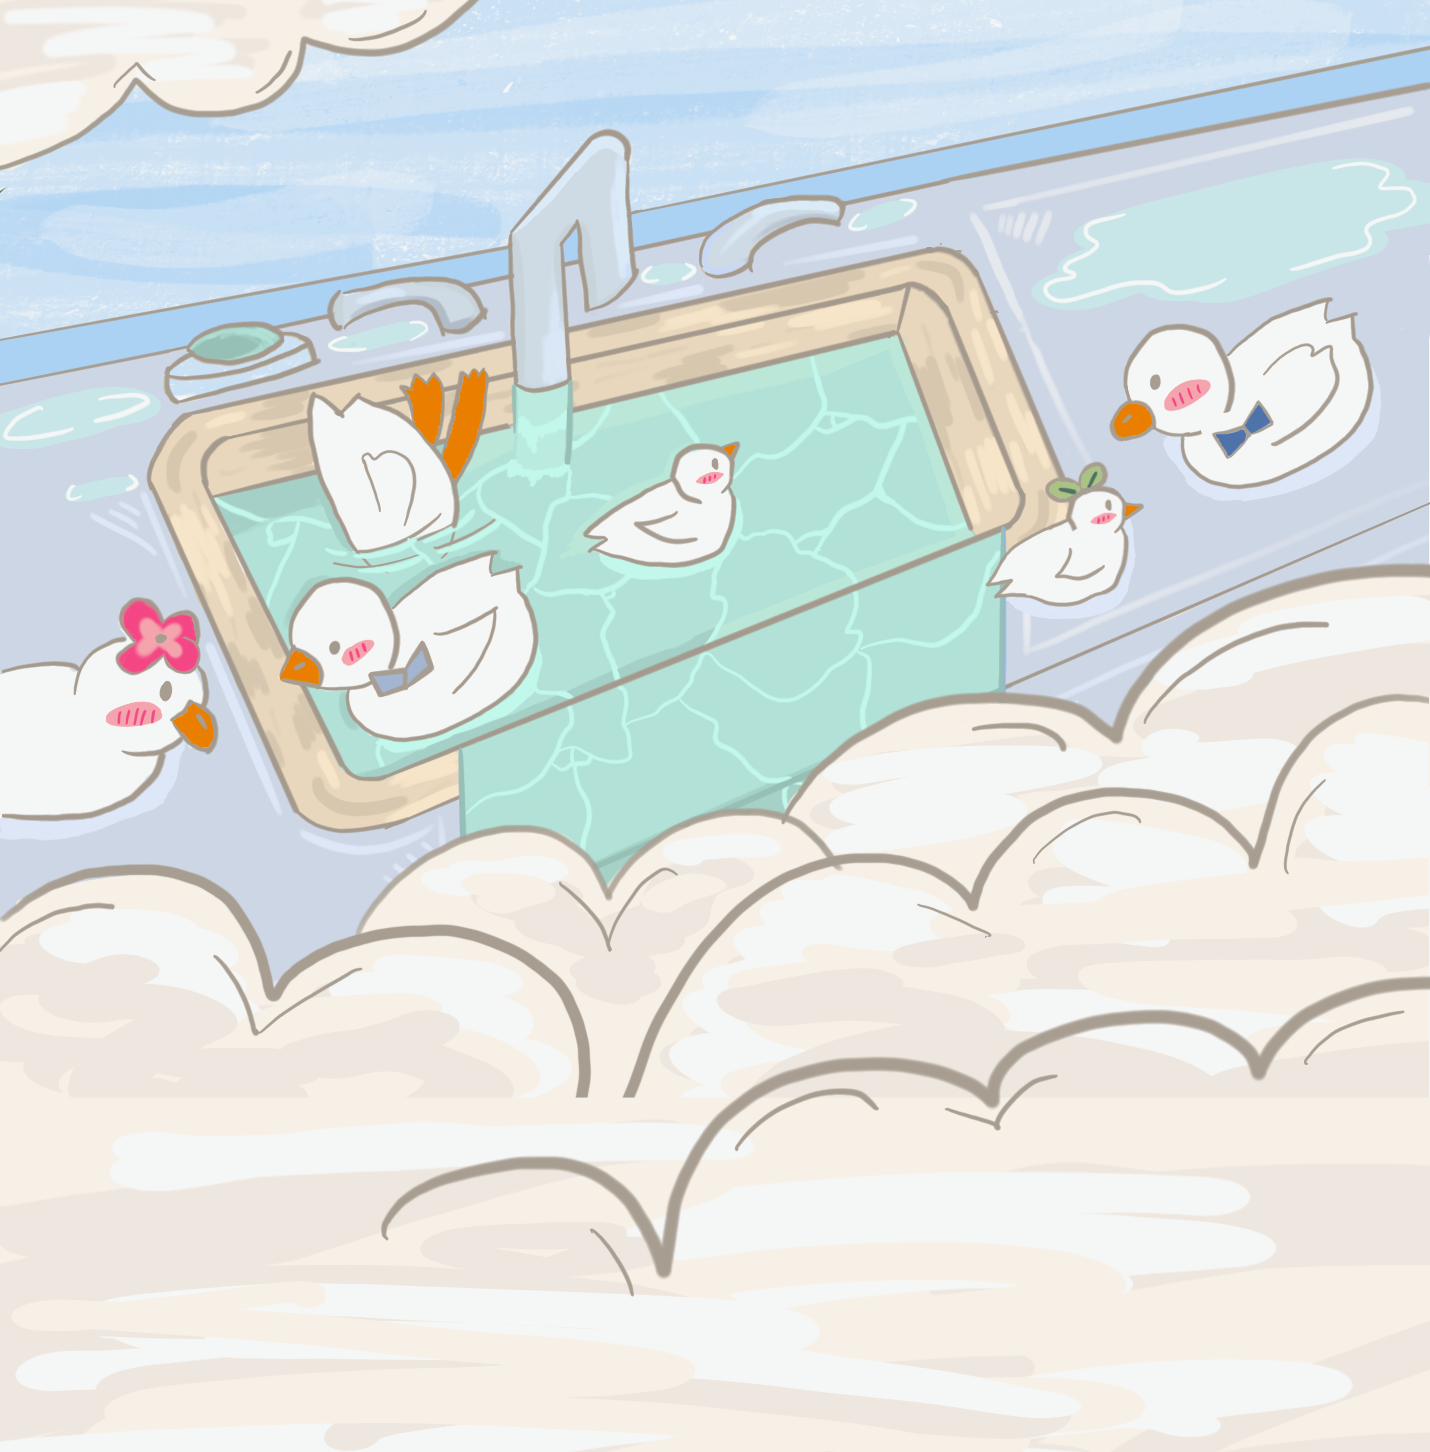
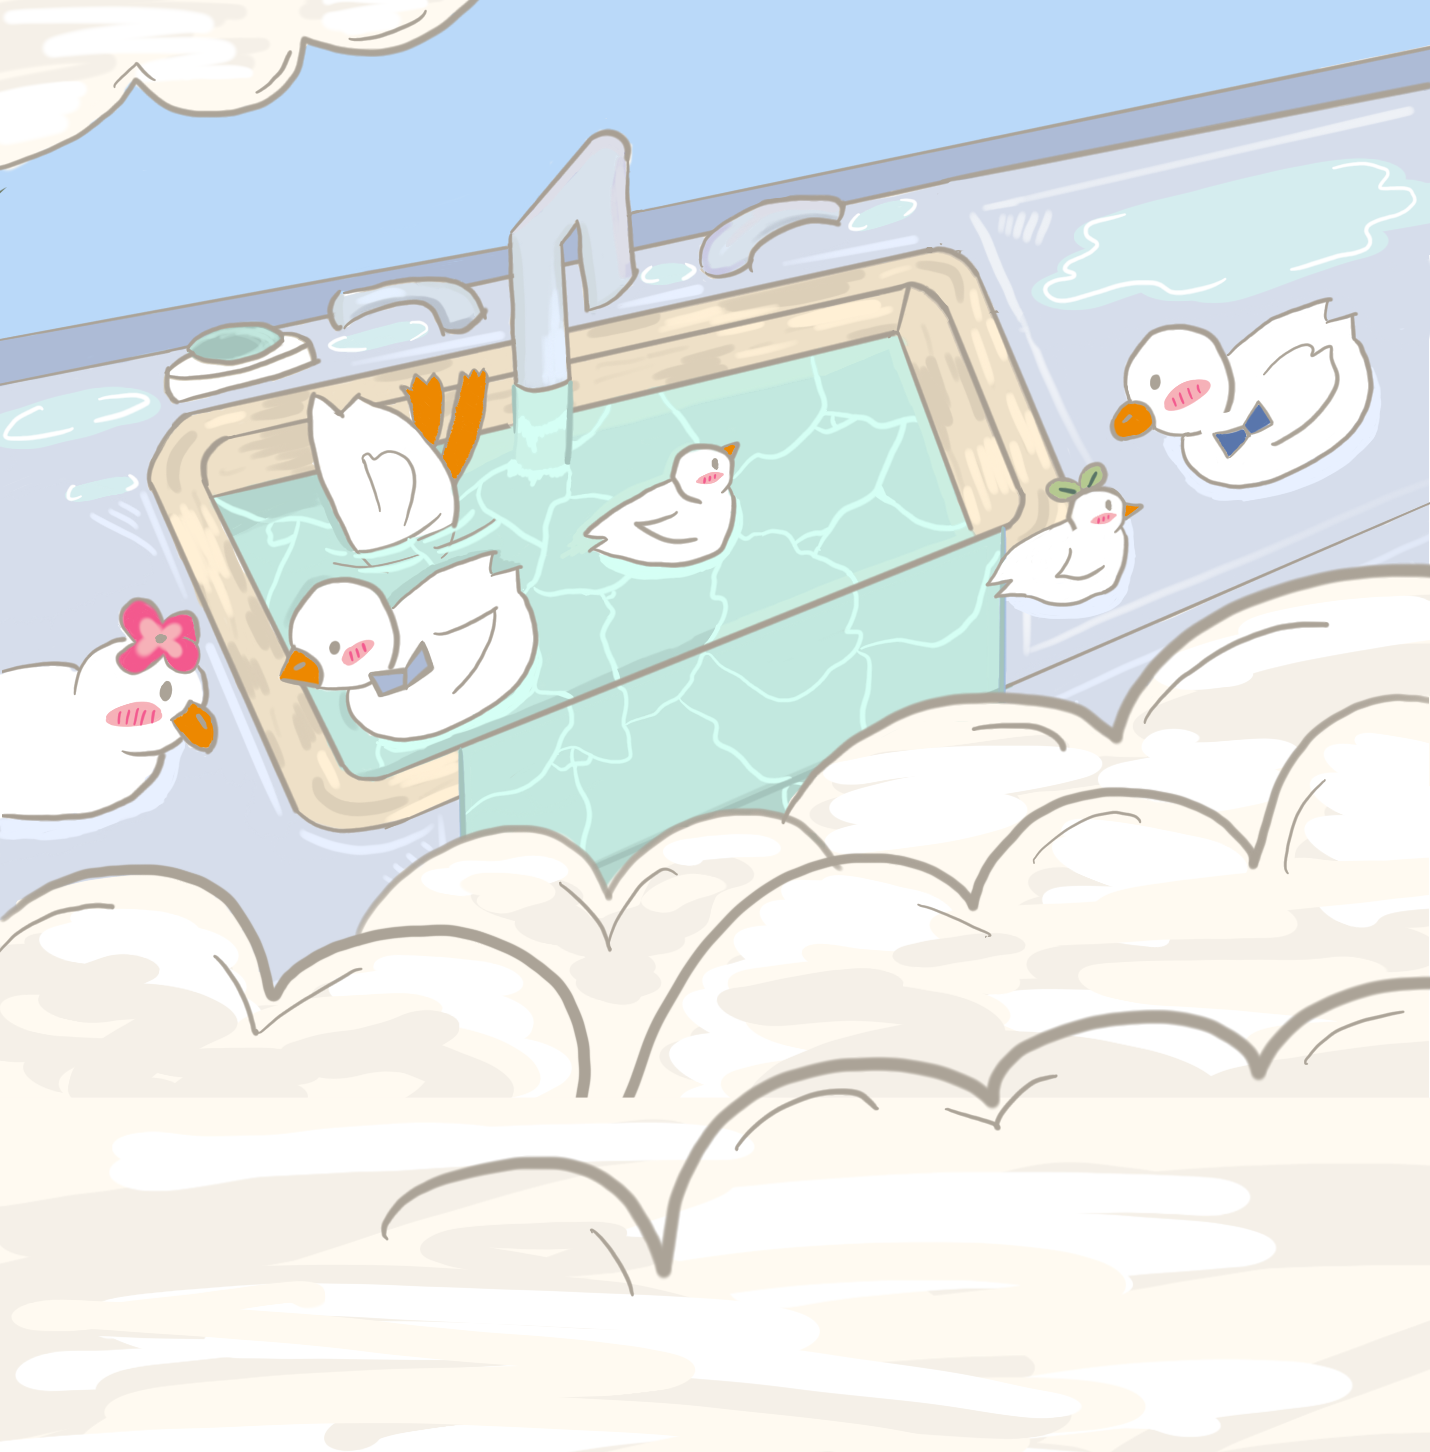
product home background in progress

Changed region(s): [[0.1846, 0.0, 1.0, 0.186], [0.0, 0.093, 0.4, 0.2789]]

diff --git a/client/src/components/pages/ProductPage.jsx b/client/src/components/pages/ProductPage.jsx
@@ -7,6 +7,7 @@ import ProductInfo from "../modules/product-page/ProductInfo";
 import ProductIngredients from "../modules/product-page/ProductIngredients";
 import ProductReview from "../modules/product-page/ProductReview";
 import "./ProductPage.css";
+import homepage from "../../assets/homepage.png";
 
 const ProductPage = ({user}) => {
   const { productID } = useParams();
@@ -85,37 +86,40 @@ const ProductPage = ({user}) => {
   };
 
   return (
-    <div className="product-page-container">
-      <div className="header">
-        <ProductImage imageUrl={product.image_url} name={product.name} />
-        <ProductDescription
-          product={product}
-          onOpenProductUrl={openProductUrl}
-          ratings={ratingsData} // Changed: pass entire ratingsData object
+    <div className="product-page-container"
+    style={{ backgroundImage: `url(${homepage})` }}>
+      <div className="product-page-main">
+        <div className="header">
+          <ProductImage imageUrl={product.image_url} name={product.name} />
+          <ProductDescription
+            product={product}
+            onOpenProductUrl={openProductUrl}
+            ratings={ratingsData} // Changed: pass entire ratingsData object
+            user={user}
+            onRatingSuccess={handleRatingSuccess}
+          />
+        </div>
+
+        <ProductInfo
+          skincareConcerns={product.skincare_concerns ?? []}
+          skinType={product.skin_type ?? []}
+        />
+
+        <ProductIngredients
+          highlightedIngredients={product.highlighted_ingredients}
+          ingredients={product.ingredients ?? []}
+          showFullIngredients={showFullIngredients}
+          onToggleIngredients={toggleIngredients}
+        />
+
+        <ProductReview
+          productID={productID}
           user={user}
-          onRatingSuccess={handleRatingSuccess}
+          userReview={ratingsData?.userReview}
+          otherReviews={ratingsData?.otherReviews ?? []}
+          onReviewSuccess={handleRatingSuccess} // Changed: use same handler
         />
       </div>
-
-      <ProductInfo
-        skincareConcerns={product.skincare_concerns ?? []}
-        skinType={product.skin_type ?? []}
-      />
-
-      <ProductIngredients
-        highlightedIngredients={product.highlighted_ingredients}
-        ingredients={product.ingredients ?? []}
-        showFullIngredients={showFullIngredients}
-        onToggleIngredients={toggleIngredients}
-      />
-
-      <ProductReview
-        productID={productID}
-        user={user}
-        userReview={ratingsData?.userReview}
-        otherReviews={ratingsData?.otherReviews ?? []}
-        onReviewSuccess={handleRatingSuccess} // Changed: use same handler
-      />
     </div>
   );
 };

diff --git a/client/src/components/modules/Recent.jsx b/client/src/components/modules/Recent.jsx
@@ -2,25 +2,8 @@ import React, { useState, useEffect } from "react";
 import { get } from "../../utilities.js";
 import { useParams } from "react-router-dom";
 
-import SingleReview from "./SingleReview";
+import Ratings from "./Ratings";
 import "./Ratings.css";
-
-// user ratings without comments component
-const UserRatings = (props) => {
-  return (
-    <div className="Review-container">
-      <SingleReview
-        _id={props._id}
-        content={props.content}
-        image={props.image}
-        product={props.product}
-        product_id={props.product_id}
-        brand={props.brand}
-        rating_value={props.rating_value}
-      />
-    </div>
-  );
-};
 
 // recent ratings show on user profile
 const Recent = () => {
@@ -32,7 +15,6 @@ const Recent = () => {
     if (!userID) return;
     get("/api/userratings", { user_id: userID }).then((data) => {
       setRatings(data);
-      console.log("data", data);
     });
   }, [userID]);
 
@@ -43,9 +25,11 @@ const Recent = () => {
   return (
     <div className="Feed-container">
       {ratings.map((review) => (
-        <UserRatings
+        <Ratings
           key={`Review_${review._id}`}
           _id={review._id}
+          creator_name={review.user_name}
+          creator_id={review.user_id}
           content={review.content}
           image={review.image}
           product={review.product}
@@ -58,4 +42,4 @@ const Recent = () => {
   );
 };
 
-export { UserRatings, Recent };
+export { Recent };

diff --git a/client/src/components/pages/ProductPage.css b/client/src/components/pages/ProductPage.css
@@ -1,4 +1,13 @@
-.product-page-container {
+.product-page-container{
+  width: 100vw;
+  height: 100%;
+
+  background-size: cover;
+  background-position: left top;
+  background-repeat: no-repeat;
+}
+
+.product-page-main {
     max-width: 800px;
     margin: 0 auto;
     background-color: white;
